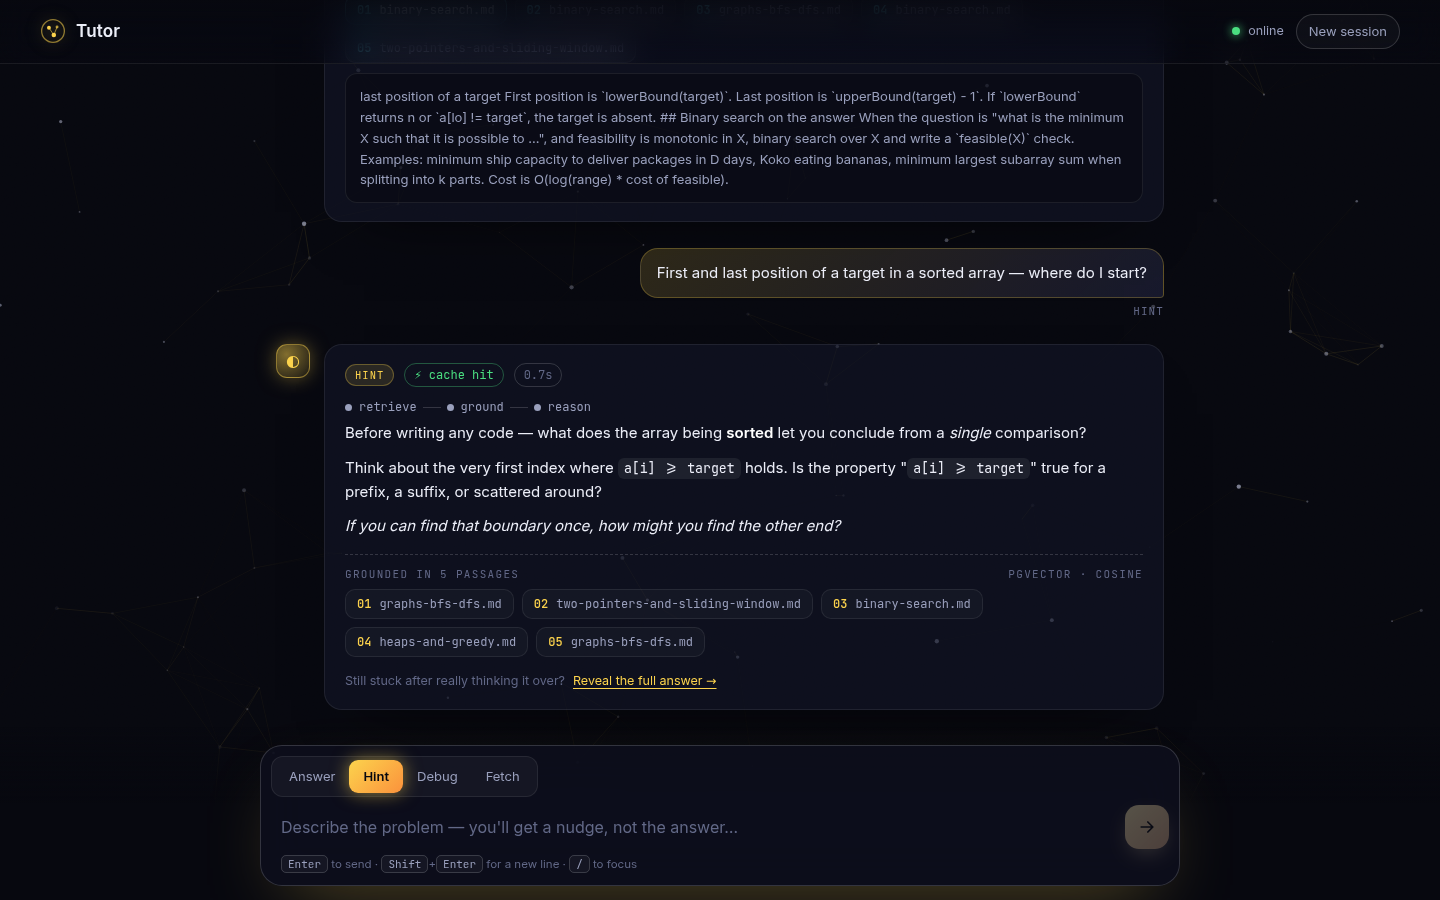
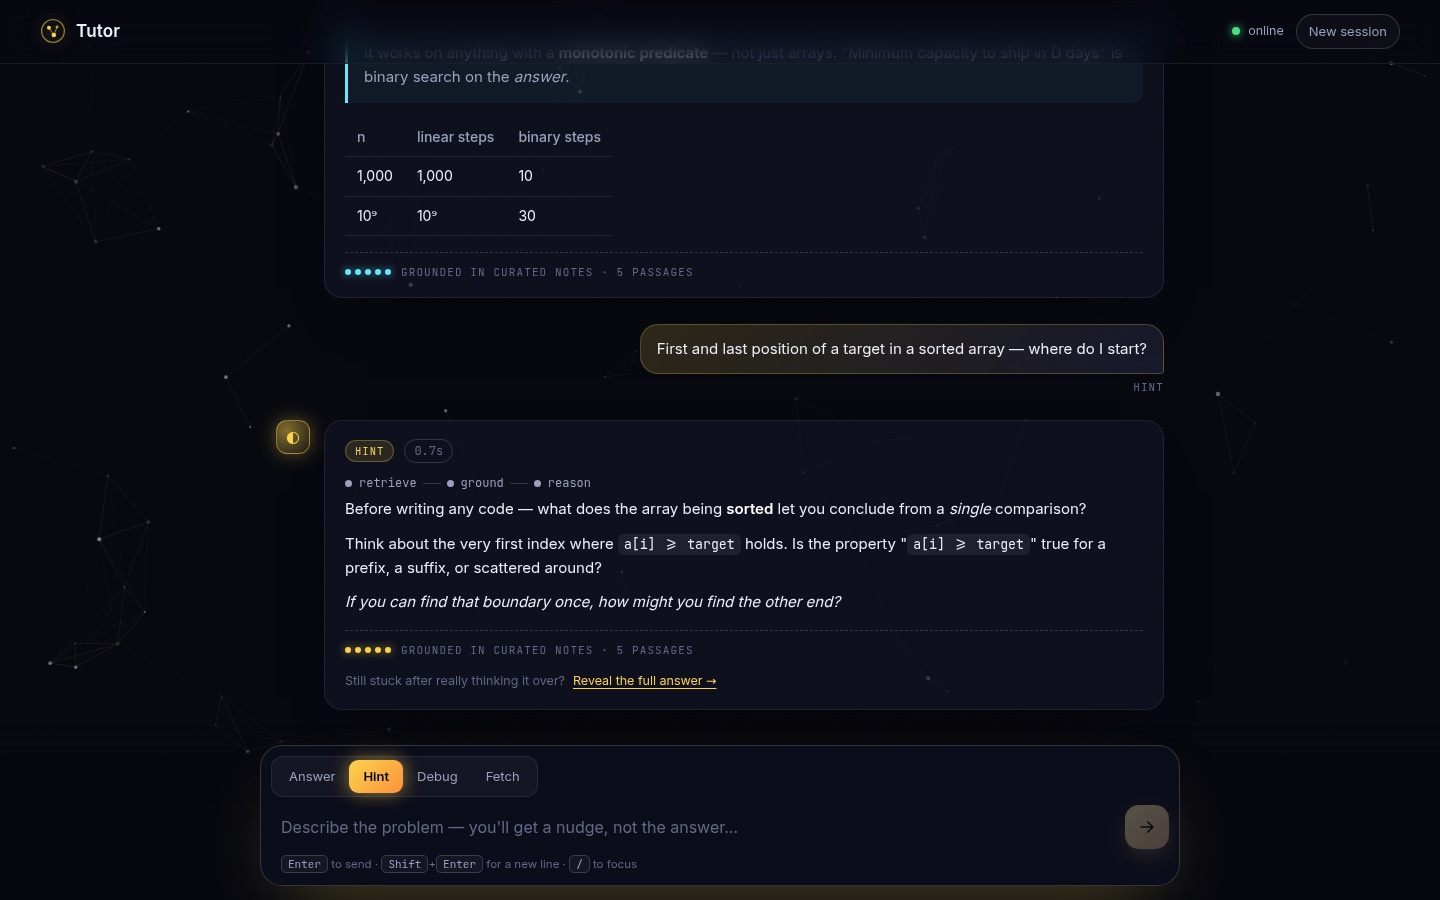
Stop exposing source file names to users
- The page shows how many passages grounded an answer, never which files
- File names are no longer sent to the LLM, and every mode's prompt forbids
  mentioning the context, notes, sources or file names
- /ask returns a passage count instead of sources; the stream emits a
  'grounding' event instead of 'sources'
- Full sources are still logged to MongoDB for debugging

diff --git a/static/app.js b/static/app.js
@@ -166,29 +166,13 @@
     return { wrap, card, head, stages, content, setStage };
   }
 
-  function renderSources(ui, sources) {
-    if (!sources?.length) return;
-    const box = el("div", "sources");
-    box.appendChild(el("div", "sources-title", `<span>Grounded in ${sources.length} passage${sources.length > 1 ? "s" : ""}</span><span>pgvector · cosine</span>`));
-    const list = el("div", "source-list");
-    let preview = null;
-    sources.forEach(([src, text], i) => {
-      const chip = el("button", "source", `<b>${String(i + 1).padStart(2, "0")}</b><span>${esc(src)}</span>`);
-      chip.type = "button"; chip.style.animationDelay = `${i * 70}ms`; chip.setAttribute("aria-expanded", "false");
-      chip.onclick = () => {
-        const open = chip.getAttribute("aria-expanded") === "true";
-        $$(".source", list).forEach((c) => c.setAttribute("aria-expanded", "false"));
-        preview?.remove(); preview = null;
-        if (!open) {
-          chip.setAttribute("aria-expanded", "true");
-          preview = el("div", "source-preview"); preview.textContent = text;
-          box.appendChild(preview);
-        }
-      };
-      list.appendChild(chip);
-    });
-    box.appendChild(list);
-    ui.card.appendChild(box);
+  // A quiet trust signal: how many passages grounded the answer, never where they came from.
+  function renderGrounding(ui, passages) {
+    if (!passages) return;
+    const line = el("div", "grounding");
+    const dots = Array.from({ length: Math.min(passages, 8) }, (_, i) => `<i style="animation-delay:${i * 90}ms"></i>`).join("");
+    line.innerHTML = `<span class="g-dots">${dots}</span><span>Grounded in curated notes · ${passages} passage${passages > 1 ? "s" : ""}</span>`;
+    ui.card.appendChild(line);
   }
 
   function ratingColor(r) {
@@ -291,11 +275,11 @@
           if (!line) continue;
           const ev = JSON.parse(line.slice(5));
 
-          if (ev.type === "sources") {
+          if (ev.type === "grounding") {
             ui.setStage("retrieve", "ok"); ui.setStage("ground", "ok"); ui.setStage("reason", "on");
-            probe?.lock(ev.sources.length);
-            if (ev.cached) ui.head.appendChild(el("span", "chip cache", "⚡ cache hit"));
-            ui.sources = ev.sources;
+            probe?.lock(ev.passages);
+            if (ev.cached) ui.head.appendChild(el("span", "chip cache", "⚡ instant"));
+            ui.passages = ev.passages;
           } else if (ev.type === "token") {
             text += ev.text;
             if (!pending) { pending = true; requestAnimationFrame(paint); }
@@ -316,7 +300,7 @@
         ui.setStage("reason", "ok");
         ui.content.innerHTML = text ? markdown(text) : '<p class="empty">The tutor had nothing to say — try rephrasing.</p>';
         decorateCode(ui.content);
-        renderSources(ui, ui.sources);
+        renderGrounding(ui, ui.passages);
         if (m === "hint") {
           const note = el("div", "spoiler-note", "Still stuck after really thinking it over? ");
           const reveal = el("button", "", "Reveal the full answer →"); reveal.type = "button";

diff --git a/static/app.css b/static/app.css
@@ -216,23 +216,17 @@ h1 em {
 .spoiler-note { margin-top: 14px; font-size: 12.5px; color: var(--faint); display: flex; gap: 8px; align-items: center; }
 .spoiler-note button { border: 0; background: none; padding: 0; color: var(--accent); text-decoration: underline; text-underline-offset: 3px; font-size: 12.5px; }
 
-/* sources */
-.sources { margin-top: 16px; border-top: 1px dashed var(--line-strong); padding-top: 12px; }
-.sources-title { font: 11px var(--mono); letter-spacing: .12em; text-transform: uppercase; color: var(--faint); margin-bottom: 8px; display: flex; justify-content: space-between; }
-.source-list { display: flex; flex-wrap: wrap; gap: 8px; }
-.source {
-  display: inline-flex; align-items: center; gap: 8px; max-width: 100%;
-  padding: 6px 11px; border-radius: 10px; font: 12px var(--mono); color: var(--muted);
-  background: rgba(255,255,255,.03); border: 1px solid var(--line);
-  transition: all .2s var(--ease); animation: rise .4s var(--ease) both;
+/* grounding line — how many passages, never which files */
+.grounding {
+  display: flex; align-items: center; gap: 10px; margin-top: 16px; padding-top: 12px;
+  border-top: 1px dashed var(--line-strong);
+  font: 11px var(--mono); letter-spacing: .1em; text-transform: uppercase; color: var(--faint);
+  animation: rise .4s var(--ease) both;
 }
-.source:hover, .source[aria-expanded="true"] { color: var(--text); border-color: rgba(var(--m), .5); background: rgba(var(--m), .07); }
-.source b { font-weight: 500; color: rgb(var(--m)); }
-.source span { overflow: hidden; text-overflow: ellipsis; white-space: nowrap; }
-.source-preview {
-  margin-top: 10px; padding: 12px 14px; border-radius: 12px; font-size: 13px; color: var(--muted);
-  background: rgba(0,0,0,.25); border: 1px solid var(--line); max-height: 220px; overflow: auto; white-space: pre-wrap;
-  animation: rise .3s var(--ease) both;
+.g-dots { display: inline-flex; gap: 4px; }
+.g-dots i {
+  width: 6px; height: 6px; border-radius: 50%; background: rgb(var(--m));
+  box-shadow: 0 0 8px rgba(var(--m), .7); animation: rise .4s var(--ease) both;
 }
 
 /* fetch results */

diff --git a/generate.py b/generate.py
@@ -20,12 +20,22 @@ DEBUG_PROMPT = """You are a DSA tutor. Use the provided context to help debug th
         code and problem. Locate the bug and explain what's wrong - not rewrite the whole solution
         from scratch. If the context is not enough , use your own knowledge."""
 
-SYSTEM_PROMPTS = {"answer": ANSWER_PROMPT, "hint": HINT_PROMPT, "debug": DEBUG_PROMPT}
+# Users never see the notes themselves, so answers must read as the tutor's own explanation.
+NO_SOURCES_RULE = """
+        Never mention the context, your notes, sources, documents or file names in your
+        reply — explain things directly, as your own knowledge."""
+
+SYSTEM_PROMPTS = {
+    "answer": ANSWER_PROMPT + NO_SOURCES_RULE,
+    "hint": HINT_PROMPT + NO_SOURCES_RULE,
+    "debug": DEBUG_PROMPT + NO_SOURCES_RULE,
+}
 LLM_MODES = tuple(SYSTEM_PROMPTS)
 
 
 def build_context(chunks: list[tuple[str, str]]) -> str:
-    return "\n\n".join(f"[{source}] {content}" for source, content in chunks)
+    """Only the passage text goes to the LLM — file names stay internal."""
+    return "\n\n---\n\n".join(content for _source, content in chunks)
 
 
 def build_user_content(context: str, query: str) -> str:
@@ -71,19 +81,21 @@ def _check_mode(mode: str) -> None:
 
 
 def ask(query: str, mode: str = "answer") -> dict:
-    """Retrieve, generate and log. Returns the answer plus the chunks it was grounded in."""
+    """Retrieve, generate and log. Returns the answer and how many passages grounded it.
+
+    Which files the passages came from is logged to MongoDB but never returned to users."""
     _check_mode(mode)
     chunks, cached = retrieve.search(query)
     result = call_llm(SYSTEM_PROMPTS[mode], build_user_content(build_context(chunks), query))
     log.log_query(query, mode, chunks, result)
-    return {"answer": result, "sources": chunks, "cached": cached}
+    return {"answer": result, "passages": len(chunks), "cached": cached}
 
 
 def ask_stream(query: str, mode: str = "answer") -> Iterator[dict]:
-    """Same as ask(), but yields events: one 'sources', many 'token', one 'done'."""
+    """Same as ask(), but yields events: one 'grounding', many 'token', one 'done'."""
     _check_mode(mode)
     chunks, cached = retrieve.search(query)
-    yield {"type": "sources", "sources": chunks, "cached": cached}
+    yield {"type": "grounding", "passages": len(chunks), "cached": cached}
 
     parts = []
     for token in stream_llm(SYSTEM_PROMPTS[mode], build_user_content(build_context(chunks), query)):

diff --git a/tests/test_generate.py b/tests/test_generate.py
@@ -24,8 +24,15 @@ def stub_pipeline(monkeypatch):
     return calls
 
 
-def test_build_context_labels_each_chunk_with_its_source():
-    assert generate.build_context(CHUNKS) == "[binary-search.md] halve the interval\n\n[dp.md] memoize states"
+def test_build_context_keeps_file_names_away_from_the_llm():
+    context = generate.build_context(CHUNKS)
+    assert "halve the interval" in context and "memoize states" in context
+    assert ".md" not in context
+
+
+@pytest.mark.parametrize("mode", ["answer", "hint", "debug"])
+def test_every_prompt_forbids_mentioning_sources(mode):
+    assert "Never mention the context" in generate.SYSTEM_PROMPTS[mode]
 
 
 @pytest.mark.parametrize("mode", ["answer", "hint", "debug"])
@@ -33,11 +40,12 @@ def test_each_mode_uses_its_own_system_prompt(stub_pipeline, mode):
     result = generate.ask("what is binary search?", mode)
     assert stub_pipeline["system"] is generate.SYSTEM_PROMPTS[mode]
     assert "halve the interval" in stub_pipeline["user"]
+    assert "binary-search.md" not in stub_pipeline["user"]
     assert stub_pipeline["user"].endswith("what is binary search?")
-    assert result == {"answer": "the answer", "sources": CHUNKS, "cached": False}
+    assert result == {"answer": "the answer", "passages": 2, "cached": False}
 
 
-def test_answer_is_logged(stub_pipeline, no_mongo):
+def test_answer_is_logged_with_its_sources(stub_pipeline, no_mongo):
     generate.ask("q", "hint")
     assert no_mongo == [("q", "hint", CHUNKS, "the answer")]
 
@@ -47,9 +55,10 @@ def test_unknown_mode_is_rejected(stub_pipeline):
         generate.ask("q", "spoil-everything")
 
 
-def test_stream_emits_sources_then_tokens_then_done(stub_pipeline, no_mongo):
+def test_stream_emits_grounding_then_tokens_then_done(stub_pipeline, no_mongo):
     events = list(generate.ask_stream("q", "answer"))
-    assert events[0] == {"type": "sources", "sources": CHUNKS, "cached": False}
+    assert events[0] == {"type": "grounding", "passages": 2, "cached": False}
+    assert "binary-search.md" not in str(events)
     assert [e["text"] for e in events if e["type"] == "token"] == ["the ", "answer"]
     assert events[-1] == {"type": "done"}
     assert no_mongo[-1][3] == "the answer"

diff --git a/tests/test_api.py b/tests/test_api.py
@@ -29,15 +29,15 @@ def test_health(client):
     assert client.get("/health").json() == {"status": "ok"}
 
 
-def test_ask_returns_answer_and_sources(client, monkeypatch):
-    monkeypatch.setattr(generate, "ask", lambda q, m: {"answer": f"{m}:{q}", "sources": [["a.md", "t"]], "cached": True})
+def test_ask_returns_answer_and_passage_count(client, monkeypatch):
+    monkeypatch.setattr(generate, "ask", lambda q, m: {"answer": f"{m}:{q}", "passages": 5, "cached": True})
     r = client.post("/ask", json={"question": "what is dp?", "mode": "hint"})
     assert r.status_code == 200
-    assert r.json() == {"mode": "hint", "answer": "hint:what is dp?", "sources": [["a.md", "t"]], "cached": True}
+    assert r.json() == {"mode": "hint", "answer": "hint:what is dp?", "passages": 5, "cached": True}
 
 
 def test_ask_defaults_to_answer_mode(client, monkeypatch):
-    monkeypatch.setattr(generate, "ask", lambda q, m: {"answer": m, "sources": [], "cached": False})
+    monkeypatch.setattr(generate, "ask", lambda q, m: {"answer": m, "passages": 0, "cached": False})
     assert client.post("/ask", json={"question": "x"}).json()["answer"] == "answer"
 
 
@@ -72,14 +72,14 @@ def _events(response):
 
 def test_stream_relays_generator_events(client, monkeypatch):
     def fake_stream(q, m):
-        yield {"type": "sources", "sources": [["a.md", "t"]], "cached": False}
+        yield {"type": "grounding", "passages": 5, "cached": False}
         yield {"type": "token", "text": "hi"}
         yield {"type": "done"}
 
     monkeypatch.setattr(generate, "ask_stream", fake_stream)
     r = client.post("/ask/stream", json={"question": "x", "mode": "debug"})
     assert r.headers["content-type"].startswith("text/event-stream")
-    assert [e["type"] for e in _events(r)] == ["sources", "token", "done"]
+    assert [e["type"] for e in _events(r)] == ["grounding", "token", "done"]
 
 
 def test_stream_fetch_mode(client, monkeypatch):

diff --git a/main.py b/main.py
@@ -56,7 +56,7 @@ def _sse(event: dict) -> str:
 
 @app.post("/ask/stream")
 def ask_stream(request: Query):
-    """Server-sent events: 'sources' → 'token'* → 'done' (or a single 'problems' for fetch)."""
+    """Server-sent events: 'grounding' → 'token'* → 'done' (or a single 'problems' for fetch)."""
 
     def events():
         try:

diff --git a/scripts/smoke_test.py b/scripts/smoke_test.py
@@ -17,5 +17,5 @@ body = {
 response = requests.post(url, json=body)
 data = response.json()
 print(data["answer"])
-print("\nGrounded in:", ", ".join(source for source, _ in data["sources"]), "(cache hit)" if data["cached"] else "")
+print(f"\nGrounded in {data['passages']} passages", "(cache hit)" if data["cached"] else "")
 

diff --git a/README.md b/README.md
@@ -39,7 +39,7 @@ flowchart TD
     MODE -- "fetch" --> PROB[("pgvector · problems table — exact id/title, else nearest")]
     P1 & P2 & P3 --> LLM["Groq LLM — openai/gpt-oss-120b"]
     LLM --> LOG[("MongoDB — query + chunks + answer logged")]
-    LLM --> RESP["Response + sources"]
+    LLM --> RESP["Response"]
     PROB --> RESP
 ```
 
@@ -104,7 +104,7 @@ uvicorn main:app --reload    # open http://127.0.0.1:8000
 
 - **Four modes, one composer.** The whole interface re-tints per mode (cyan answer, amber hint, rose debug, violet fetch).
 - **Streams token by token** over server-sent events, with a live `retrieve → ground → reason` progress trail.
-- **Shows its work.** Every answer lists the passages it was grounded in; click one to read the exact chunk. Cache hits are flagged.
+- **Grounded, not leaky.** Each answer notes how many passages it was grounded in, but never which files. Your notes stay internal, and the LLM is told not to cite them either. (Full sources are still logged to MongoDB for debugging.)
 - **Knowledge constellation.** The background is a field of "chunks"; each question drops a probe that locks onto its top-k neighbours, mirroring the vector search running on the server.
 - **Hint mode keeps its promise** — the full answer is one deliberate click away ("Reveal the full answer"), never the default.
 - `fetch` results link to the problem, with its rating and a similarity meter. Debug mode switches the input to monospace and `Ctrl+Enter` to send, so pasting code is painless.
@@ -128,8 +128,8 @@ The Stack Overflow importer streams the XML, so the multi-GB dump never has to f
 
 | Endpoint | Returns |
 |---|---|
-| `POST /ask` | `{"mode", "answer", "sources": [[file, chunk], ...], "cached"}` — or `{"mode": "fetch", "problems": [...]}` |
-| `POST /ask/stream` | Server-sent events: `sources` → `token`… → `done` (or `problems` → `done`; `error` on failure) |
+| `POST /ask` | `{"mode", "answer", "passages", "cached"}` — or `{"mode": "fetch", "problems": [...]}` |
+| `POST /ask/stream` | Server-sent events: `grounding` → `token`… → `done` (or `problems` → `done`; `error` on failure) |
 | `GET /health` | `{"status": "ok"}` |
 | `GET /docs` | Interactive OpenAPI docs |
 
@@ -202,7 +202,7 @@ The tests stub out Postgres, Redis, MongoDB, Groq and the embedding model, so th
 - [x] Corpus expansion — bundled notes, official-docs loader, Codeforces public API, Stack Overflow dump
 - [x] `fetch` mode — surface the exact/similar indexed problem
 - [x] CI (lint + test on PR)
-- [x] Web frontend — streaming, grounded sources, four modes
+- [x] Web frontend — streaming, grounded answers, four modes
 - [ ] Public deployment
 
 Built with corpus sourced only from this project's own notes and license-clean sources — deliberately **not** scraping GeeksforGeeks or LeetCode, since both prohibit it in their ToS.
